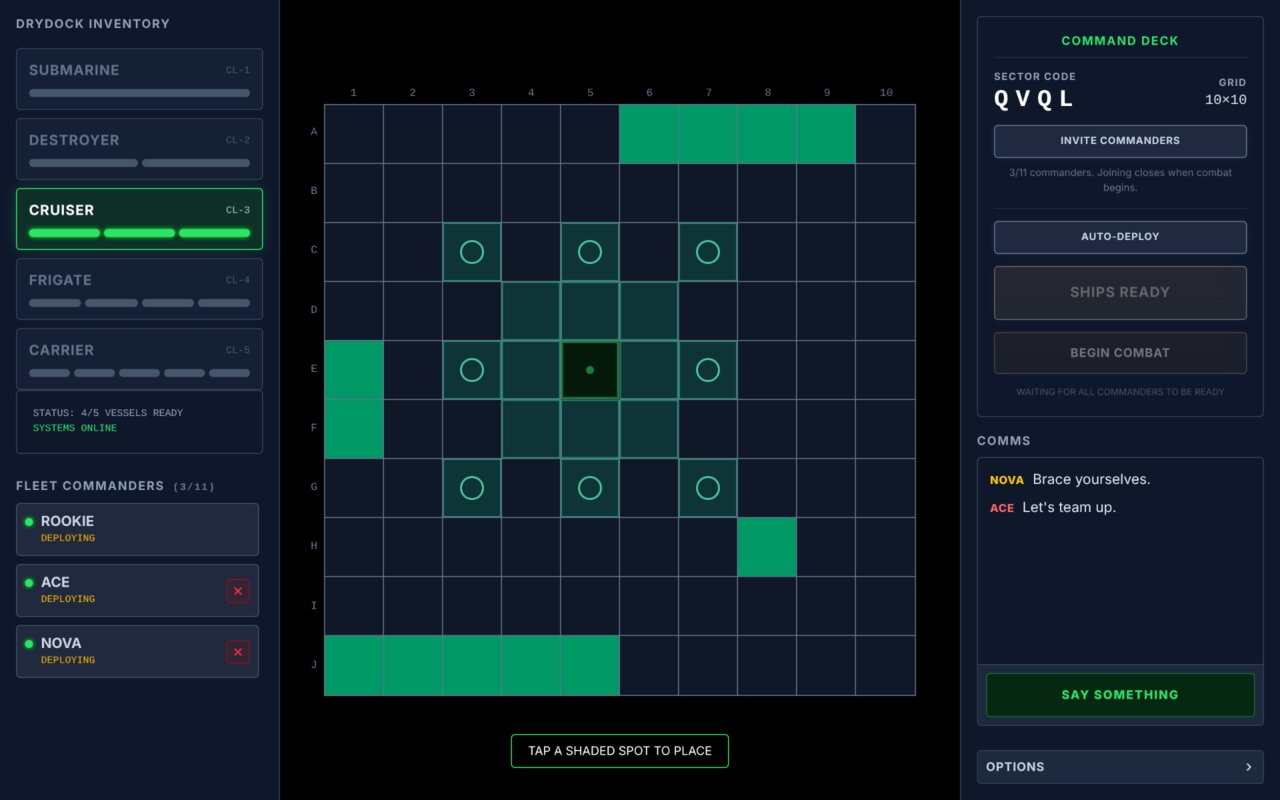
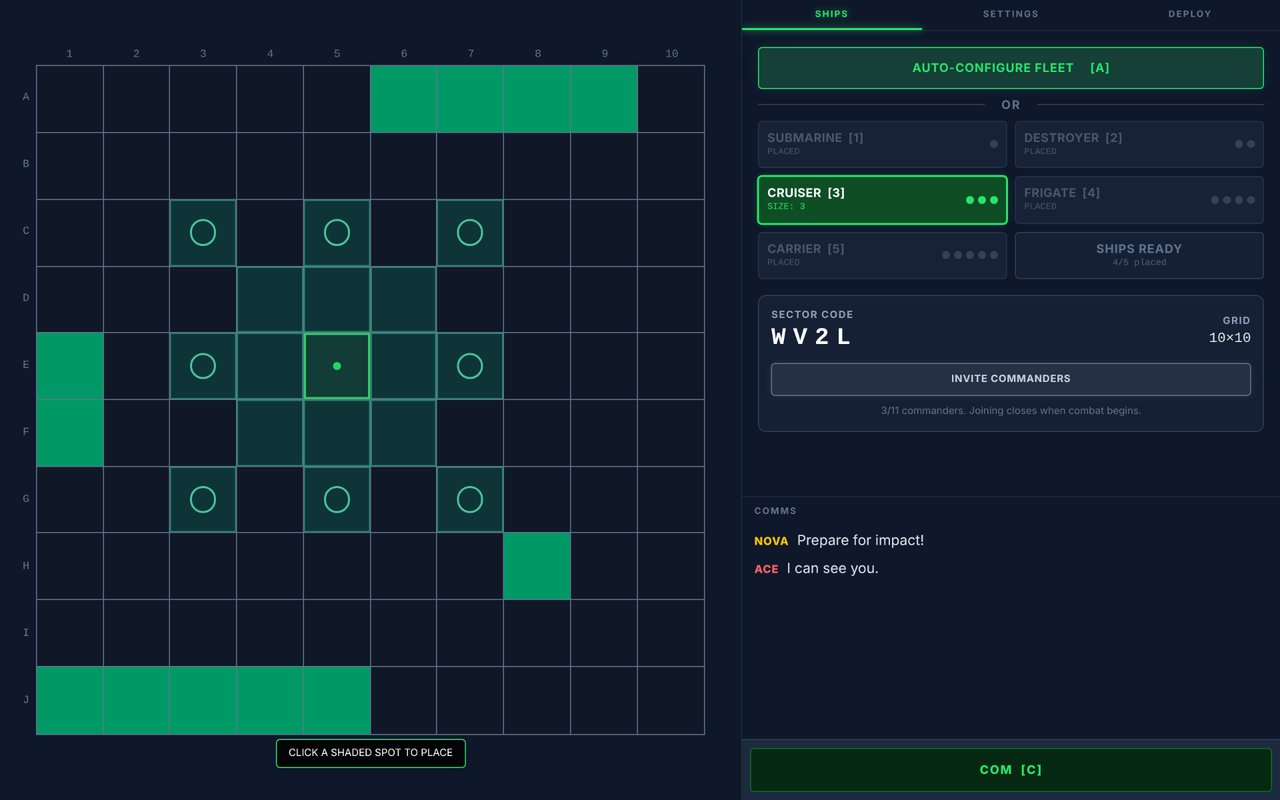
New screenshots of the redesigned game
The desktop pictures showed the old three-column console. Retaken from the
current game: battle, deployment, the create form and the victory screen on a
desktop, and the battle on a phone. Alt text and the deployment wording match
the new layout (Auto-Configure, Ships Ready).

Claude-Session: https://claude.ai/code/session_01YFqwUetJYn2g7G66KxfdsN

diff --git a/index.html b/index.html
@@ -291,7 +291,7 @@
       <div class="radar" aria-hidden="true"><span></span><span></span><span></span></div>
       <div class="shot-frame">
         <div class="bar"><i></i><i></i><i></i></div>
-        <img src="img/battle.jpg" width="1280" height="800" alt="Desktop battle view: a ten by ten grid full of round numbers with two squares aimed, the fleet trackers on the left and the Fire button on the right.">
+        <img src="img/battle.jpg" width="1280" height="800" alt="Desktop battle view: a ten by ten grid full of round numbers with two squares aimed, beside a panel with ACE's fleet pinned on the Targets page, the Comms feed below it and the Fire button at the foot.">
       </div>
       <div class="phone">
         <img src="img/trackers-mobile.jpg" width="780" height="1688" alt="The same battle on a phone: the grid above, and the Targets tab below with ACE's fleet pinned, showing the rounds its Frigate was hit in, over a row of enemy fleet cards with damage bars.">
@@ -319,7 +319,7 @@
       <div class="card">
         <div class="num">01</div>
         <h3>Deploy</h3>
-        <p>Place your five ships horizontally, vertically or diagonally, or let the game auto-deploy them for you. Signal Ready, and the host starts the battle.</p>
+        <p>Place your five ships horizontally, vertically or diagonally, or let the game auto-configure them for you. Mark your ships ready, and the host starts the battle.</p>
       </div>
       <div class="card">
         <div class="num">02</div>
@@ -406,11 +406,11 @@
         <figcaption><b>Open a sector</b>Pick a grid size, then share a four-letter code or a link. No sign-ups.</figcaption>
       </figure>
       <figure>
-        <div class="shot-frame"><img src="img/deploy.jpg" width="1280" height="800" loading="lazy" alt="Deployment screen: ships placed on the grid, shaded squares showing where the Cruiser fits, and the drydock inventory on the left."></div>
-        <figcaption><b>Deploy your fleet</b>Place by hand or auto-deploy, then Signal Ready.</figcaption>
+        <div class="shot-frame"><img src="img/deploy.jpg" width="1280" height="800" loading="lazy" alt="Deployment screen: ships placed on the grid, shaded squares showing where the Cruiser fits, and beside it the ship cards, the sector code and the Comms feed."></div>
+        <figcaption><b>Deploy your fleet</b>Place by hand or auto-configure, then Ships Ready.</figcaption>
       </figure>
       <figure>
-        <div class="shot-frame"><img src="img/victory.jpg" width="1280" height="800" loading="lazy" alt="Victory screen reading Mission Complete, Victor: MAVERICK, with stars bursting out behind the card."></div>
+        <div class="shot-frame"><img src="img/victory.jpg" width="1280" height="800" loading="lazy" alt="Victory screen reading Mission Complete, Victor: MAVERICK, with stars bursting out behind the card and the Review Battlefield and Return to Main Menu buttons."></div>
         <figcaption><b>Claim victory</b>Last fleet afloat wins</figcaption>
       </figure>
     </div>
